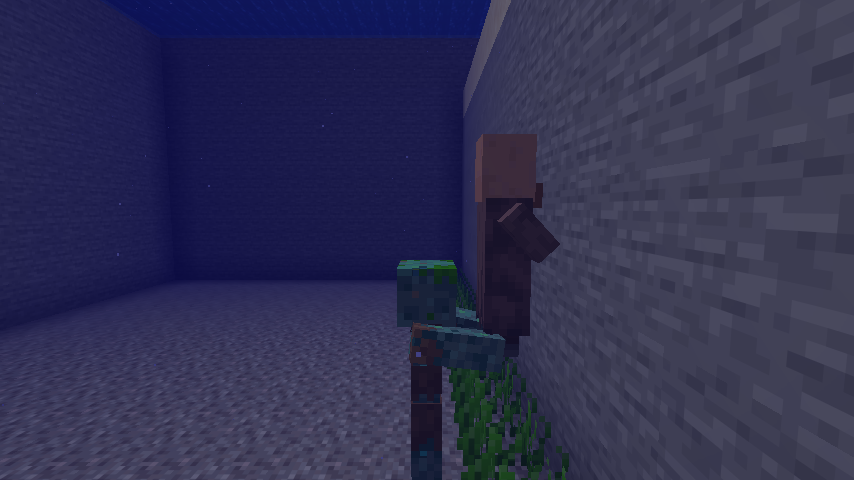
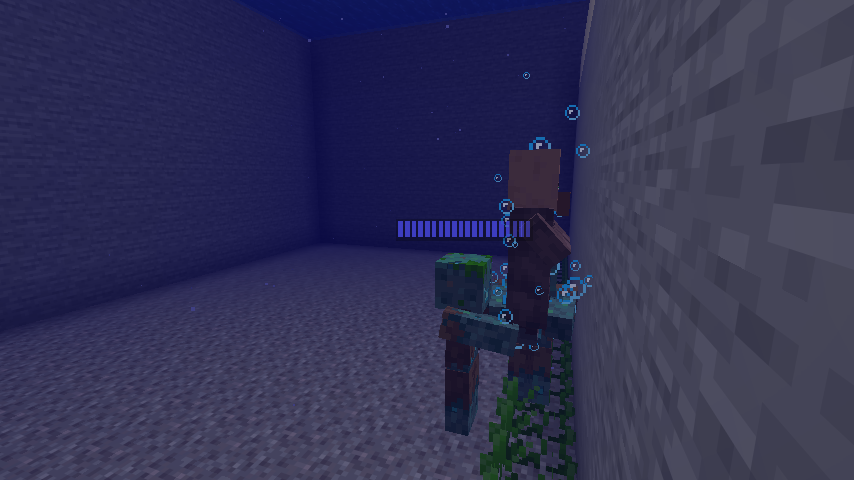
Reworked Mobs: dangerous drowned: a grip meter (starts at half, tightens while dragging, hits loosen it; its hits escalate with it), other drowned join in on the other leg, show_meters game rule with blue grip bars and the red creeper startle bar; tools/drowned-danger.py death-time model (C1)

Changed region(s): [[0.2436, 0.0, 0.7002, 1.0], [0.1218, 0.0, 0.2131, 0.0625], [0.0304, 0.9688, 0.0609, 1.0]]

diff --git a/mods/bubbas_reworked_mobs/src/gametest/java/io/github/bubba8587/bubbas_reworked_mobs/test/DrownedClientGameTest.java b/mods/bubbas_reworked_mobs/src/gametest/java/io/github/bubba8587/bubbas_reworked_mobs/test/DrownedClientGameTest.java
@@ -26,7 +26,9 @@ import net.fabricmc.fabric.api.client.gametest.v1.context.TestSingleplayerContex
  * back turned), drowned-drag-deep (upright, under water, holding it), drowned-held-player (the camera player held
  * by the ankles, from in front and below), drowned-lurk-bank (from the bank at water level: only its eyes and scalp show). Lying: drowned-grab-land
  * (dragging a villager back to the water by the ankles), drowned-swim (swimming to its spot), drowned-crawl-side and drowned-crawl-front (crawling
- * on land).
+ * on land). With the show_meters game rule on: the grip bar shows blue above the grabbing drowned (drowned-grab),
+ * drowned-two-holders (a second drowned from the pit joined in and holds the other leg), creeper-startle-bar (a
+ * startled creeper's red meter), drowned-held-player-hud (the held player's blue grip bar under the crosshair).
  */
 @SuppressWarnings("UnstableApiUsage")
 public class DrownedClientGameTest implements FabricClientGameTest {
@@ -48,6 +50,7 @@ public class DrownedClientGameTest implements FabricClientGameTest {
 			int z = base.getZ();
 			server.runCommand("gamerule send_command_feedback false");
 			server.runCommand("gamerule spawn_mobs false");
+			server.runCommand("gamerule bubbas_reworked_mobs:show_meters true");
 			server.runCommand("time set noon");
 			server.runCommand("weather clear");
 			server.runCommand("gamemode spectator @p");
@@ -106,15 +109,22 @@ public class DrownedClientGameTest implements FabricClientGameTest {
 				return null;
 			});
 			waitFor(context, server, "grab", level -> DrownedAccess.mind(drowned(level)).state() == DrownedMind.State.DRAG);
+			server.runCommand("effect give @e[tag=%s_v] minecraft:resistance infinite 4 true".formatted(TAG));
+			server.runCommand("effect give @e[tag=%s_v] minecraft:water_breathing infinite 0 true".formatted(TAG));
+			server.runCommand("summon minecraft:drowned %d.5 %d %d.5 {PersistenceRequired:1b,Silent:1b,Tags:[\"%s_h\"]}".formatted(x + 4, y - 9, z + 13, TAG));
 			context.waitTicks(6);
 			tp(context, server, x + 4.5, y + 0.6, z + 3.5, 90.0F, 15.0F);
 			context.takeScreenshot("drowned-grab");
-			waitFor(context, server, "dragged deep", level -> drowned(level).getZ() > z + 9.0 && drowned(level).getY() < y - 8.5);
+			waitFor(context, server, "dragged deep, second drowned holding", level -> drowned(level).getZ() > z + 9.0 && drowned(level).getY() < y - 8.5
+					&& DrownedAccess.mind(drowned(level)).holdingHelpers() == 1);
 			context.waitTicks(5);
 			double dz = onServer(server, level -> drowned(level).getZ());
 			double dy = onServer(server, level -> drowned(level).getY());
-			tp(context, server, x + 4.0, dy + 1.0, dz, 90.0F, 5.0F);
+			tp(context, server, x + 4.5, dy + 1.4, dz - 1.0, 70.0F, 10.0F);
 			context.takeScreenshot("drowned-drag-deep");
+			tp(context, server, x + 0.5, dy + 1.2, dz - 4.0, 0.0F, 10.0F);
+			context.takeScreenshot("drowned-two-holders");
+			server.runCommand("kill @e[tag=%s_h]".formatted(TAG));
 			server.runCommand("kill @e[tag=%s]".formatted(TAG));
 			server.runCommand("kill @e[tag=%s_v]".formatted(TAG));
 			context.waitTicks(30);
@@ -190,6 +200,32 @@ public class DrownedClientGameTest implements FabricClientGameTest {
 			server.runCommand("kill @e[tag=%s_v]".formatted(TAG));
 			server.runCommand("time set noon");
 			context.waitTicks(30);
+
+			// --- a creeper's startle meter, red above its head (show_meters) -----------------------------
+			server.runCommand("summon minecraft:creeper %d.5 %d %d.5 {PersistenceRequired:1b,Silent:1b,Rotation:[0f,0f],Tags:[\"%s_c\"]}".formatted(x - 4, y, z - 6, TAG));
+			context.waitTicks(3);
+			onServer(server, level -> {
+				for (Entity e : level.getAllEntities()) {
+					if (e instanceof net.minecraft.world.entity.monster.Creeper c && e.entityTags().contains(TAG + "_c")) {
+						c.hurtServer(level, level.damageSources().playerAttack(level.players().getFirst()), 0.1F);
+					}
+				}
+				return null;
+			});
+			context.waitTicks(12);
+			onServer(server, level -> {
+				for (Entity e : level.getAllEntities()) {
+					if (e instanceof net.minecraft.world.entity.monster.Creeper c && e.entityTags().contains(TAG + "_c")) {
+						c.hurtServer(level, level.damageSources().playerAttack(level.players().getFirst()), 0.1F);
+					}
+				}
+				return null;
+			});
+			context.waitTicks(3);
+			tp(context, server, x - 3.5, y + 0.4, z - 2.0, 160.0F, 5.0F);
+			context.takeScreenshot("creeper-startle-bar");
+			server.runCommand("kill @e[tag=%s_c]".formatted(TAG));
+			context.waitTicks(10);
 
 			// --- upright: holding the camera player (survival), from the front --------------------------
 			server.runCommand("gamemode survival @p");

diff --git a/mods/bubbas_reworked_mobs/src/gametest/java/io/github/bubba8587/bubbas_reworked_mobs/test/DrownedGameTest.java b/mods/bubbas_reworked_mobs/src/gametest/java/io/github/bubba8587/bubbas_reworked_mobs/test/DrownedGameTest.java
@@ -89,6 +89,8 @@ public class DrownedGameTest {
 	public void grabsAndDragsToDeepWater(GameTestHelper helper) {
 		Drowned drowned = lurker(helper);
 		ServerPlayer player = playerOnLand(helper, 5.5, 8.5, 90.0F, 0.0F);
+		// The tightening grip would kill a test player before the drag is done (it doesn't tick its own air or regen).
+		player.addEffect(new MobEffectInstance(MobEffects.RESISTANCE, 600, 4));
 		double startY = player.getY();
 		boolean[] grabbed = {false};
 		int[] tick = {0};

diff --git a/docs/reports/drowned-danger-2026-11-16.md b/docs/reports/drowned-danger-2026-11-16.md
@@ -1,0 +1,94 @@
+<!-- dte:C1,B18,B19 -->
+# Docs addendum: dangerous drowned, the grip meter, others joining in, visible meters (2026-11-16)
+
+Builder's addendum to `specs/drowned.md` (and `specs/creepers.md` for the red bar). Owner changes, all binding: "make the drowned dangerous", the grip meter rework, and visible meters behind a game rule. Nothing here is in the live docs yet.
+
+## The grip meter (replaces the grip-break meter)
+
+- **Grip, 0-100 (`DrownedMind.grip`).** It starts at **50** when a drowned grabs. It **rises 0.25 a tick** while it drags (5 a second: half to full in 10 s if nobody fights). **Hits loosen it** by the same points as before: 6 + 3 per point of damage before armor; axes x1.5 (was x2); +12 per level of Impaling, +10 per level of Knockback. A hit on any holder counts, and so does anyone's hit (B18). **At 0 you're free**: every holder lets go and recoils. Riptide still frees at once. There's no drain any more; the old meter's drain is now the grip's rise.
+- **The danger follows the grip (B19: the grip is the visible state; no drag timer).** At 50 or less its hits use the start values; at 100, the full values; in between, a straight line:
+
+| | grip 50 or less | grip 100 |
+|---|---|---|
+| Hit chance per tick | 1/50 (about every 2.5 s) | 1/10 (about every 0.5 s) |
+| Damage per hit | 2 | 4 |
+| Air knocked out per hit | 45 (1.5 bubbles) | 90 (3 bubbles) |
+
+  Respiration still divides the air loss by 1 + its oxygen bonus. Water Breathing, Conduit Power and Breath of the Nautilus still stop the air loss.
+- **What players see and hear as it tightens:** more and harder hits, with a squeeze sound (the drowned's water ambient) that gets louder and lower. Bubbles stream off a victim under water every 2 ticks: 1, rising to 7 at full grip. With the game rule on, the grip itself shows as a blue bar (below).
+- Numbers are in `DrownedTuning`: `GRIP_START`, `GRIP_RISE_PER_TICK`, `GRIP_RISE_PER_HELPER`, `HIT_CHANCE_PER_TICK`/`_FULL`, `HIT_DAMAGE`/`_FULL`, `HIT_AIR_LOSS`/`_FULL`, `ESCALATION_BUBBLES`. `GRIP_DECAY_PER_TICK` and `ESCALATE_TICKS` are gone.
+
+**Death times if the victim panics** (nobody hits back), from `tools/drowned-danger.py`, a Monte Carlo over vanilla's air, drowning, armor and hurt-time rules with the numbers above. Medians, with the middle 80 % in brackets:
+
+| Victim | 1 drowned | 2 drowned | 3 drowned |
+|---|---|---|---|
+| Unarmored | 8.5 s (7.2-9.8) | 6.0 s (5.2-6.9) | 4.9 s (4.2-5.5) |
+| Full iron | 12.7 s (11.6-14.1) | | |
+| Full diamond | 17.6 s (15.9-19.6) | | |
+| Unarmored, Respiration III | 8.9 s (7.5-11.0) | | |
+| Diamond, Respiration III | 24.3 s (21.4-27.5) | | |
+
+Before this change it was about 17 s unarmored. The model assumes the victim is under water from the start; in 2-deep shallows their head is above water for the first second or two.
+
+**Getting out (fresh grab, one drowned):** two iron axe hits (49.5 each) about a second apart; three or four iron sword hits (24 each, 1.6 a second) in about 2 s; fists (9 a hit, at most 2 a second through vanilla's hurt time) in about 4 s. All of these are well inside the 8.5 s.
+- With two holding: an axe takes about 4 hits (3.5 s), a sword about 3 s, and fists can't win alone.
+- With three holding: an axe takes about 5 s, against about 5 s to death. You need a friend.
+
+## Others join in
+
+- A dragging drowned looks once a second (one box query, 16 blocks) for drowned that are already there and free: not vanilla, not riding, and idle, travelling or lurking. The nearest swim over (state JOIN: lying, swimming at 0.15 blocks a tick) and grab the other leg (state HELP). At most 2 extras, so 3 holders in all. No drowned are spawned for this. It works on any victim the same way (passive mobs too, B18).
+- **How it fits the riding hold (one vehicle):** the first drowned stays the vehicle and the only one that moves the victim. The extras aren't vehicles. Each one holds a grip point at the victim's feet from the side (90 degrees round from the first one's grip, one on each side), level with the first. A spring keeps it there, facing the victim, upright in water. It follows as the first one drags. If it's pulled more than 3 blocks off its point, it swims back.
+- **Effects of each extra holder:**
+  - The grip rises 50 % faster (+0.125 a tick per extra).
+  - Hits loosen it less: points are divided by 1 + 0.6 per extra (two holders: /1.6, three: /2.2).
+  - The drag is 35 % faster per extra.
+  - Each extra also rolls its own hits on the same grip value, so more hits land.
+- **How extras let go:** one meter, shared and held by the first drowned. When it reaches 0 (or Riptide fires, or the first one dies) everyone lets go and the extras recoil too. An extra lets go on its own if the first one stops dragging, the victim is gone, or it gives up swimming over (24 blocks away). Killing an extra removes it.
+- The `DRAG_SPEED_PER_HELPER`, `GRIP_EXTRA_HOLDER_DIVISOR` and `JOIN_*` numbers are in `DrownedTuning`.
+
+## Visible meters (game rule `bubbas_reworked_mobs:show_meters`, default false)
+
+- **Rule:** "Show mob meters (drowned grip, creeper startle)", category Mobs, in the lang file and datagen.
+- **Drowned grip:** blue. A bar of 20 marks shows above the holding drowned, in the line under where its name tag would go, for everyone within 32 blocks. On the held player's screen there's an 81 x 5 bar under the crosshair: black edge, dark blue well, blue fill with a lighter top line, drawn with filled rectangles.
+- **Creeper startle:** red. The same 20-mark bar above the creeper, rising with hits and fast movement and falling as it calms (`CreeperMind.meter()` scaled from `METER_FULL`). It shows only while the meter is above 0.
+- **How values get to clients (`meter/Meters`):** one S2C payload `bubbas_reworked_mobs:meter`: entity id (VarInt), kind, and a value 0-100 (1 byte each). It goes to the players tracking the mob, only while the rule is on, and only when the whole-number value changes. A 0 is sent once when the meter empties or the rule goes off; the client then drops it.
+- **Cost:**
+  - A dragging drowned sends one 3-6 byte packet to each tracking player about every 4 ticks.
+  - A creeper that is calming sends one every 2 ticks; a calm creeper sends nothing.
+  - With the rule off, nothing is sent at all. The server does a game-rule read per mob per tick.
+  - On the client, the bar costs a map lookup per rendered entity.
+- **Limits:**
+  - A player who starts tracking a mob mid-meter sees its bar from the next change, at most a few ticks later while it's moving.
+  - The above-head bar uses the scoreboard below-name line, so a mob with a scoreboard below-name display shows the bar instead while it has a meter.
+  - The bar marks are bold "|" characters, not a texture, so `docs/art-todo.md` needs no rows.
+- **Code:** `meter/Meters` (common: payload, rule check, sending); `client/meter/MeterBars` (client map, bar component, HUD element after the crosshair); `client/mixin/MeterBarMixin` (puts the bar into `EntityRenderState.scoreText` at the end of `EntityRenderer.extractRenderState`); the hooks are in `DrownedMind.tick` and `CreeperMixin`'s tick.
+
+## Builder's choices
+
+1. **The danger starts counting at 50**, not 0, so a fresh grab has the old start values. Hitting it below 50 makes its hits no weaker than the start values, but brings it closer to letting go.
+2. **Extra holders make it harder both ways:** the grip rises faster and your hits count for less. The extras also add their own hits. Fists can't beat two holders alone.
+3. **Axes went from x2 to x1.5**, so a fresh grab still needs two axe hits (with x2, one axe hit from 50 would free you at once).
+4. **The extras hold the sides of the feet, not the vehicle slot:** the riding hold has room for one vehicle, so only the first drowned moves the victim; the extras follow it.
+5. **Meters show for creative players and spectators too** (it's a debug/playtest view behind a rule that's off by default).
+
+## Tests and screenshots
+
+- `./gradlew :bubbas_reworked_mobs:build -PmilestoneTests -PrerunGametests`: all 95 pass.
+- **Core:**
+  - `drownedGripLoosensWithHitsAndTightensWhileDragging` (replaces `drownedGripBreakMeterBreaksTheHold`): starts at 50; a fist hit loosens it by about 9; 40 ticks of dragging raise it by 10; two fast axe hits free a villager.
+  - `drownedSecondDrownedJoinsAndHoldsHarder`: a drowned in the pit swims over and holds at the villager's feet; with two holding the grip rises 1.5x as fast; a hit on the helper loosens the shared grip by 1/1.6; at 0 both let go.
+  - The drag test's player now has Resistance V (the faster hits could kill the test player mid-drag).
+- **Milestone:** `gripTightensToFullAndHitsHarder`: after 10 s of dragging the grip is full, and a full-grip hit does 4 damage and takes 90 air.
+- **Client part `drowned`** (rule on) adds `drowned-two-holders` and `creeper-startle-bar`. `drowned-grab` now has the blue bar above the drowned, and `drowned-held-player-hud` has the blue HUD bar under the crosshair plus the bar above the drowned. The villager in the deep-drag shots has Resistance and Water Breathing so it lives through the shots.
+- **Previews** in `docs/previews/drowned/`: `drowned-grab-meter.png`, `drowned-two-holders.png`, `drowned-drag-deep.png`, `creeper-startle-bar.png`, `drowned-held-player-hud.png`.
+- **Milestone objectives not yet tested:**
+  - A third drowned joins and the holders split one on each side.
+  - The meters stop sending when the rule goes off.
+  - A late tracker sees the bar on the next change.
+  - Riptide frees from several holders at once.
+
+## Player-facing text changes
+
+- Its grip **tightens the longer it holds you**: more and harder blows, more of your breath knocked out, more bubbles streaming off you. Fight back fast: every hit loosens its grip, and when the grip is gone it lets you go.
+- **Other drowned nearby swim over and grab your other leg.** Each one holding on makes the grip tighten faster and your blows count for less. Bring a friend.
+- New game rule **Show mob meters** (off by default): a blue bar shows a drowned's grip (above it, and under your crosshair while it holds you), and a red bar shows how startled a creeper is.
